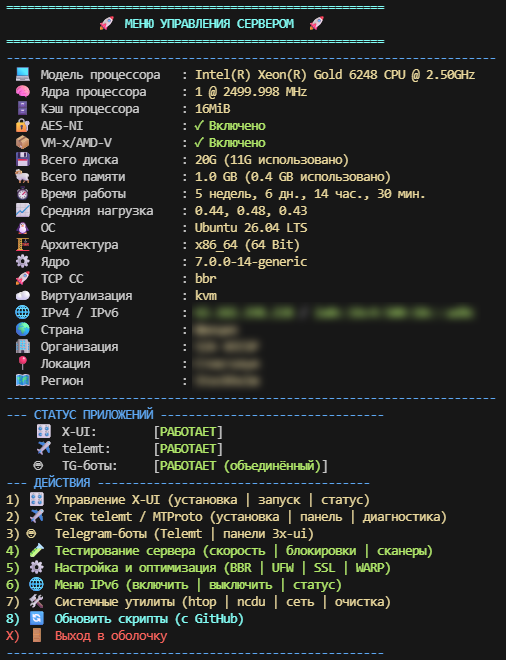
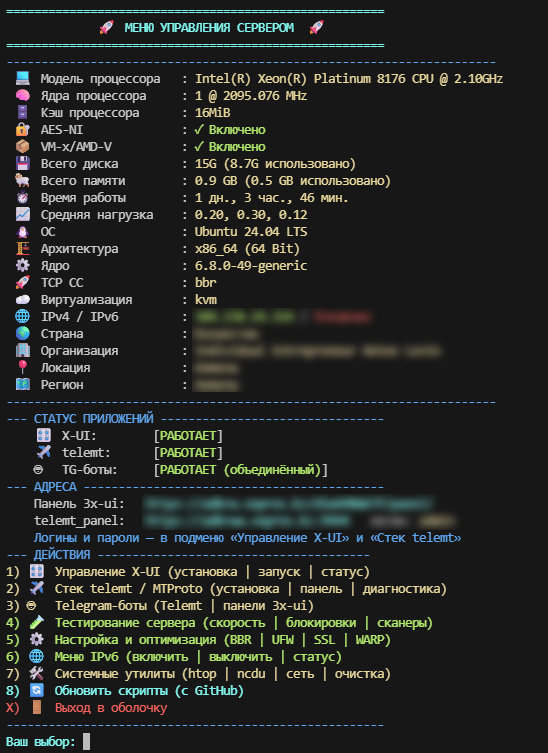
docs: README сверен с меню, добавлены хранимые файлы, порты и разрушающие операции
README описывал меню приблизительно, и часть описаний разошлась с экраном.
Пункт «Восстановить конфигурацию» на деле называется «Восстановить маскировку»,
раздел 4 — «Тестирование сервера», а не «Диагностика», 7 — «Системные утилиты».
Теперь названия и нумерация в таблицах совпадают с тем, что видно в меню, и
проверены по исходникам, а не по памяти.

Раздела для меню X-UI не было вовсе, хотя это пункт 1. Добавлен, вместе с новым
пунктом учётных данных и честным описанием удаления панели: оно вычищает nginx
вместе с /etc/nginx, а значит и маскировку стека telemt.

Добавлены три раздела ради прозрачности:

  • «Что VSM хранит на сервере» — какие файлы создаются, что в них лежит и с
    какими правами. Отдельно оговорено, что /etc/vsm/xui.conf держит пароль
    панели открытым текстом и стирается тем же пунктом меню: раз VSM просит
    ввести пароль, он обязан сказать, куда его кладёт.
  • «Порты» — что слушает наружу, а что только 127.0.0.1.
  • «Разрушающие операции» — слово подтверждения и что переживает удаление.
    Прежде это выяснялось только чтением кода.

Скриншот главного меню обновлён: строки «telemt: порт» в блоке АДРЕСА больше
нет, подсказка ведёт в подменю.

Changed region(s): [[0.0, 0.0, 0.9486, 1.0]]

diff --git a/README.md b/README.md
@@ -22,33 +22,82 @@ bash <(curl -sL https://raw.githubusercontent.com/adkudryashov/VSM/main/uninstal
 
 | # | Раздел | Что умеет |
 |---|---|---|
-| **1** | **X-UI Pro** | Установка [3x-ui-pro](https://github.com/mozaroc/3x-ui-pro) — VLESS/Reality/Trojan через nginx с автоSSL и Clash-подпиской. Патч без потери БД, AdGuard Home, бэкап и восстановление, записная книжка учётных данных панели |
+| **1** | **Управление X-UI** | Установка [3x-ui-pro](https://github.com/mozaroc/3x-ui-pro) — VLESS/Reality/Trojan через nginx с автоSSL и Clash-подпиской. Патч без потери БД, AdGuard Home, бэкап и восстановление, записная книжка учётных данных панели |
 | **2** | **Стек telemt / MTProto** | MTProto-прокси для Telegram, веб-панель telemt_panel, лимитер входящих соединений, современный TLS |
 | **3** | **Telegram-боты** | Боты мониторинга Telemt и панелей 3x-ui — вместе или по отдельности |
-| **4** | **Диагностика** | Проверка доступности сервисов, замеры скорости, YABS, IPQuality, сетевые сканеры |
-| **5** | **Настройка сервера** | BBR, запрет ICMP, UFW, часовой пояс, SSL-сертификаты, Cloudflare WARP |
-| **6** | **IPv6** | Включение и отключение на уровне ядра, проверка адресов |
-| **7** | **Утилиты** | htop, ncdu, nethogs, ping/mtr, активные порты, очистка системы, проверка привязки домена |
-| **8** | **Обновление** | `git pull`, пересоздание ссылок и перезапуск ботов — без перезагрузки сервера |
+| **4** | **Тестирование сервера** | Проверка доступности из РФ, замеры скорости, YABS, IPQuality, сетевые сканеры |
+| **5** | **Настройка и оптимизация** | BBR, запрет ICMP, UFW, часовой пояс, SSL-сертификаты, Cloudflare WARP |
+| **6** | **Меню IPv6** | Включение и отключение на уровне ядра, проверка адресов |
+| **7** | **Системные утилиты** | htop, ncdu, nethogs, ping/mtr, активные порты, очистка системы, проверка привязки домена |
+| **8** | **Обновить скрипты** | `git pull`, пересоздание ссылок и перезапуск ботов — без перезагрузки сервера |
 
 Главный экран показывает характеристики сервера, геолокацию, статусы X-UI, telemt
 и ботов, а также адреса панелей. Логинов и паролей на нём нет намеренно: меню
 открывается при каждом входе по SSH, поэтому учётные данные показываются в
-подменю — «X-UI Pro» для панели 3x-ui и «Стек telemt» для telemt_panel.
+подменю — «Управление X-UI» для панели 3x-ui и «Стек telemt» для telemt_panel.
+
+## Что VSM хранит на сервере
+
+Всё, что содержит секреты, создаётся с правами `600` и принадлежит root.
+
+| Путь | Что внутри | Права |
+|---|---|---|
+| `/root/VSM` | Клон репозитория; команды меню — симлинки из `/usr/local/bin` | — |
+| `/etc/vsm/telemt.conf` | Домены, порты, MTProto-секрет, логин и пароль telemt_panel | 600 |
+| `/etc/vsm/telemt-credentials.txt` | То же в читаемом виде — для пункта «Показать учётные данные» | 600 |
+| `/etc/vsm/xui.conf` | Логин и пароль панели 3x-ui, введённые вручную | 600 |
+| `/etc/vsm/bots.conf` | Выбранный режим Telegram-ботов | 600 |
+| `/root/VSM/bots/.env` | Токены ботов и Telegram ID администраторов | 600 |
+| `/etc/nginx/conf.d/telemt-mask.conf` | vhost self-SNI маскировки | — |
+
+Пароль панели 3x-ui VSM **прочитать не может**: установщик генерирует его
+случайно, показывает один раз и никуда не сохраняет, а сама панель хранит его
+хэшем. Поэтому пункт «Учётные данные панели» ничего в панели не меняет — он
+запоминает то, что вы уже знаете, чтобы не искать при каждом входе. Файл при
+этом держит пароль открытым текстом; не нужен — сотрите его тем же пунктом.
+
+## Порты
+
+| Порт | Что слушает | Доступ |
+|---|---|---|
+| 443 | Панель 3x-ui и её сайт | Извне |
+| 8444 | telemt (MTProto) | Извне |
+| 9444 | telemt_panel | Извне |
+| 7444 | Цель self-SNI маскировки | Только `127.0.0.1` |
+| 9091 | API telemt | Только `127.0.0.1` |
+
+Порты стека меню спрашивает при установке — в таблице значения по умолчанию.
+
+## Разделы меню
+
+Нумерация в таблицах ниже совпадает с той, что на экране.
+
+### Управление X-UI — пункт 1
+
+| № | Пункт | Что делает |
+|---|---|---|
+| 1 | Установить X-UI Pro | Панель, nginx, SSL, Clash-подписка, диагностика сети. **Стирает существующую панель** |
+| 2 | Применить патч | Обновляет установку автора без изменения БД |
+| 3 | AdGuard Home | DNS-over-HTTPS и блокировка рекламы на домене панели, через 443 |
+| 4 | Бэкап и восстановление | Создать, показать список, вернуть из архива |
+| 5 | Управление сервисом | Статус, старт, стоп, рестарт `x-ui` |
+| 6 | Запустить панель X-UI | Штатное меню команды `x-ui` |
+| 7 | Учётные данные панели | Показывает и записывает логин с паролем в `/etc/vsm/xui.conf`. **Пароль в панели не меняет** |
+| 8 | Удалить X-UI Pro полностью | Требует ввести `УДАЛИТЬ`. Сносит панель и **вычищает nginx вместе с `/etc/nginx`** — а значит и маскировку стека telemt. Сертификаты Let's Encrypt остаются |
 
 ### Стек telemt / MTProto — пункт 2
 
-| Пункт | Что делает |
-|---|---|
-| Установить весь стек с нуля | 3x-ui-pro + telemt + telemt_panel. **Стирает существующую панель**, требует ввода слова подтверждения |
-| Добавить telemt к существующей 3x-ui-pro | Ставит только telemt и панель, базу 3x-ui не трогает |
-| Статус и диагностика | Проверка служб и целостности конфигурации, сквозной тест работоспособности |
-| Восстановить конфигурацию | Пересоздаёт vhost nginx из сохранённых настроек |
-| Показать учётные данные | Читает `/etc/vsm/telemt-credentials.txt` (права 600) |
-| Управление службами | Статус, старт, стоп, логи telemt и telemt_panel |
-| MTProxyL | Ставит и запускает [лимитер, обход и тюнинг](https://github.com/Liafanx/MTProxyL): nftables, Zapret2, sysctl, фиксы для iOS. Нужен его режим **Reanimator** — он применяет фиксы к уже работающему telemt, а не ставит свой. Показывает версии и выбранный режим |
-| Пересборка nginx с OpenSSL 3.5 | Сборка со свежим OpenSSL, 20–40 минут |
-| Удалить стек | Убирает telemt и панель; 3x-ui-pro и сертификаты не трогает |
+| № | Пункт | Что делает |
+|---|---|---|
+| 1 | Установить весь стек с нуля | 3x-ui-pro + telemt + telemt_panel. **Стирает существующую панель**, требует ввести `СТЕРЕТЬ` |
+| 2 | Добавить telemt к существующей 3x-ui-pro | Ставит только telemt и панель, базу 3x-ui не трогает |
+| 3 | Статус и диагностика | Проверка служб и конфигурации, сквозной тест маскировки |
+| 4 | Восстановить маскировку | Пересоздаёт vhost nginx из сохранённых настроек — после патча панели |
+| 5 | Показать учётные данные | Читает `/etc/vsm/telemt-credentials.txt`, адрес панели подставляет живой |
+| 6 | Управление службами | Статус, старт, стоп, логи telemt и telemt_panel |
+| 7 | MTProxyL | Ставит [лимитер, обход и тюнинг](https://github.com/Liafanx/MTProxyL): nftables, Zapret2, sysctl, фиксы для iOS. Нужен режим **Reanimator** — он применяет фиксы к уже работающему telemt, а не ставит свой. Показывает версии и выбранный режим |
+| 8 | Пересборка nginx с OpenSSL 3.5 | Сборка со свежим OpenSSL, 20–40 минут |
+| 9 | Удалить стек telemt | Убирает telemt и telemt_panel; 3x-ui-pro и сертификаты не трогает |
 
 Стеку нужны два поддомена с A-записями на IP сервера — меню спросит их при установке и проверит конфигурацию само.
 
@@ -60,9 +109,12 @@ bash <(curl -sL https://raw.githubusercontent.com/adkudryashov/VSM/main/uninstal
 
 | Вариант | Служба | Для чего |
 |---|---|---|
-| **Объединённый** | `3xui-telemt-bot` | Обе функции в одном чате с переключением по кнопкам и общей сводкой |
-| telemt-bot | `telemt-bot` | Только панель Telemt |
-| 3xui-bot | `3xui-monitor` | Только панели 3x-ui |
+| **1 — Объединённый** | `3xui-telemt-bot` | Обе функции в одном чате с переключением по кнопкам и общей сводкой |
+| 2 — Два отдельных бота | `telemt-bot` + `3xui-monitor` | Два токена, две службы |
+| 3 — Только telemt-bot | `telemt-bot` | Только панель Telemt |
+| 4 — Только 3xui-bot | `3xui-monitor` | Только панели 3x-ui |
+
+Остальные пункты раздела: **5** — обновить код ботов с GitHub, **6** — показать текущие настройки, **7** — управление службами, **8** — удалить ботов (данные сохраняются).
 
 **telemt-часть:** статистика панели, история подключений по IP, отчёты, метрики Prometheus, карта подключений по GeoIP.
 **3x-ui часть:** статусы и отчёты по панелям, добавление и удаление панелей из чата, уведомления о падении и об истечении срока VPS.
@@ -74,6 +126,31 @@ bash <(curl -sL https://raw.githubusercontent.com/adkudryashov/VSM/main/uninstal
 > Токены и базы в репозиторий не попадают. Обновление кода — пункт **5** внутри меню ботов.
 
 Архитектура, устройство клавиатуры и структура кода — в [bots/README.md](bots/README.md).
+
+### Остальные разделы — пункты 4–7
+
+| Раздел | Пункты |
+|---|---|
+| **4 — Тестирование сервера** | IP region · доступность из РФ (DNS, датацентры, радар ТСПУ) · iPerf3 · YABS · IPQuality · параметры сервера · sysbench · RealiTLScanner · DPI Detector · SNI Scan |
+| **5 — Настройка и оптимизация** | BBR · запрет ICMP · UFW · часовой пояс · SSL-сертификаты · Cloudflare WARP |
+| **6 — Меню IPv6** | Включить, отключить, статус; выбор сохраняется в `/etc/sysctl.conf` |
+| **7 — Системные утилиты** | htop · ncdu · nethogs · внешний IP · ping и mtr · активные порты · kill · очистка системы · проверка привязки домена |
+
+Бенчмарки (YABS, iPerf3, bench.sh, sysbench) на слабой машине идут долго — от десятков минут.
+
+> **Включение UFW** добавляет разрешающее правило для текущего SSH-порта до активации фаервола. Без этого политика `DROP` отрезала бы доступ к серверу.
+
+## Разрушающие операции
+
+Всё, что нельзя откатить, подтверждается **вводом слова целиком**, а не нажатием `y`. Регистр учитывается.
+
+| Операция | Слово | Что переживает удаление |
+|---|---|---|
+| Установка стека с нуля | `СТЕРЕТЬ` | — панель ставится заново |
+| Удалить X-UI Pro полностью | `УДАЛИТЬ` | Сертификаты Let's Encrypt. **Не переживает** маскировка telemt: `/etc/nginx` сносится целиком |
+| Удалить стек telemt | `УДАЛИТЬ` | 3x-ui-pro, сертификаты; конфиг и учётные данные — по отдельному вопросу |
+| Удалить ботов | `УДАЛИТЬ` | Данные в `bots/data`: история IP, список панелей, базы GeoIP |
+| Обновить код ботов при своих правках в `bots/` | `СТЕРЕТЬ` | Спрашивается, только если правки есть; иначе обновление идёт молча |
 
 ## 🤝 Благодарности и используемые компоненты
 
